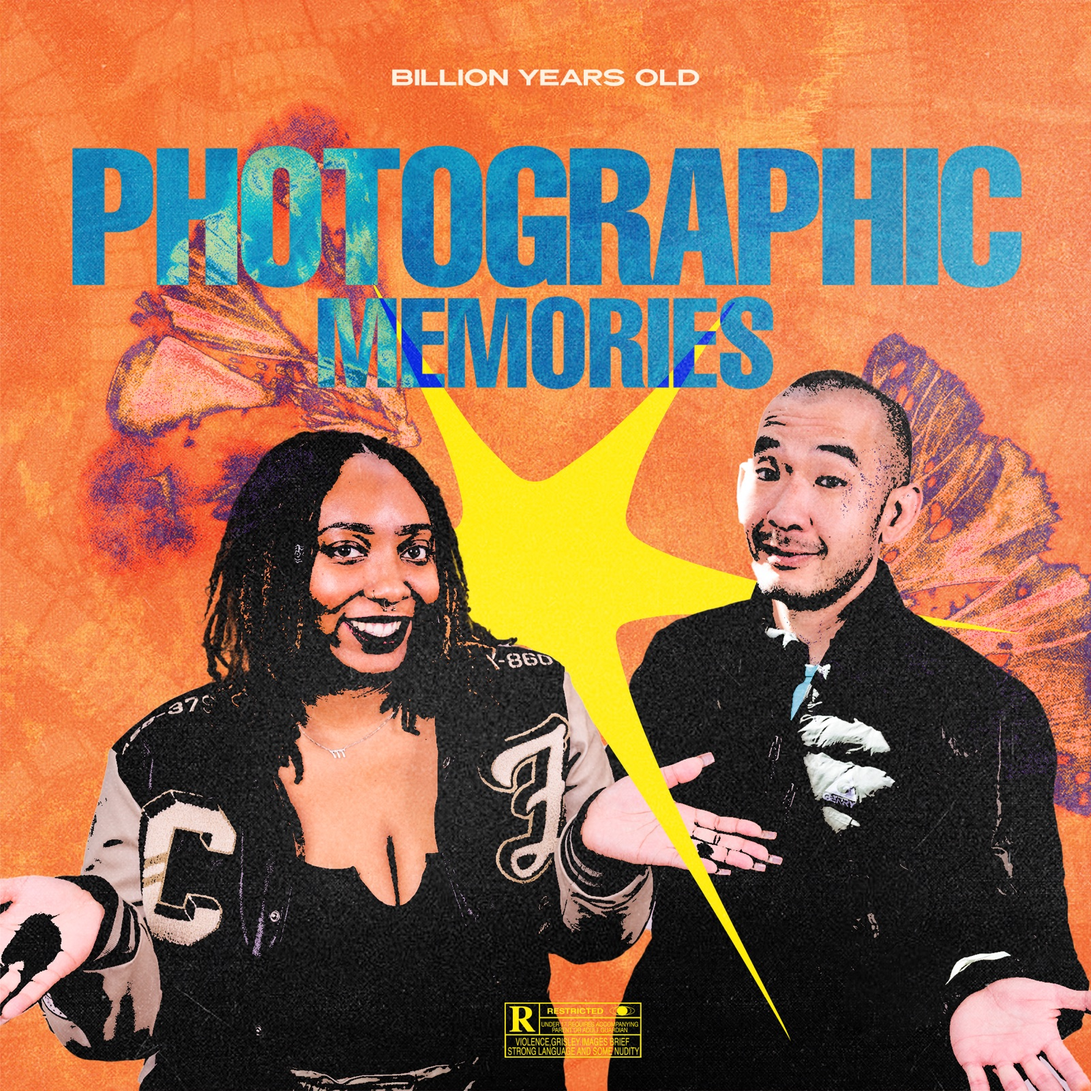
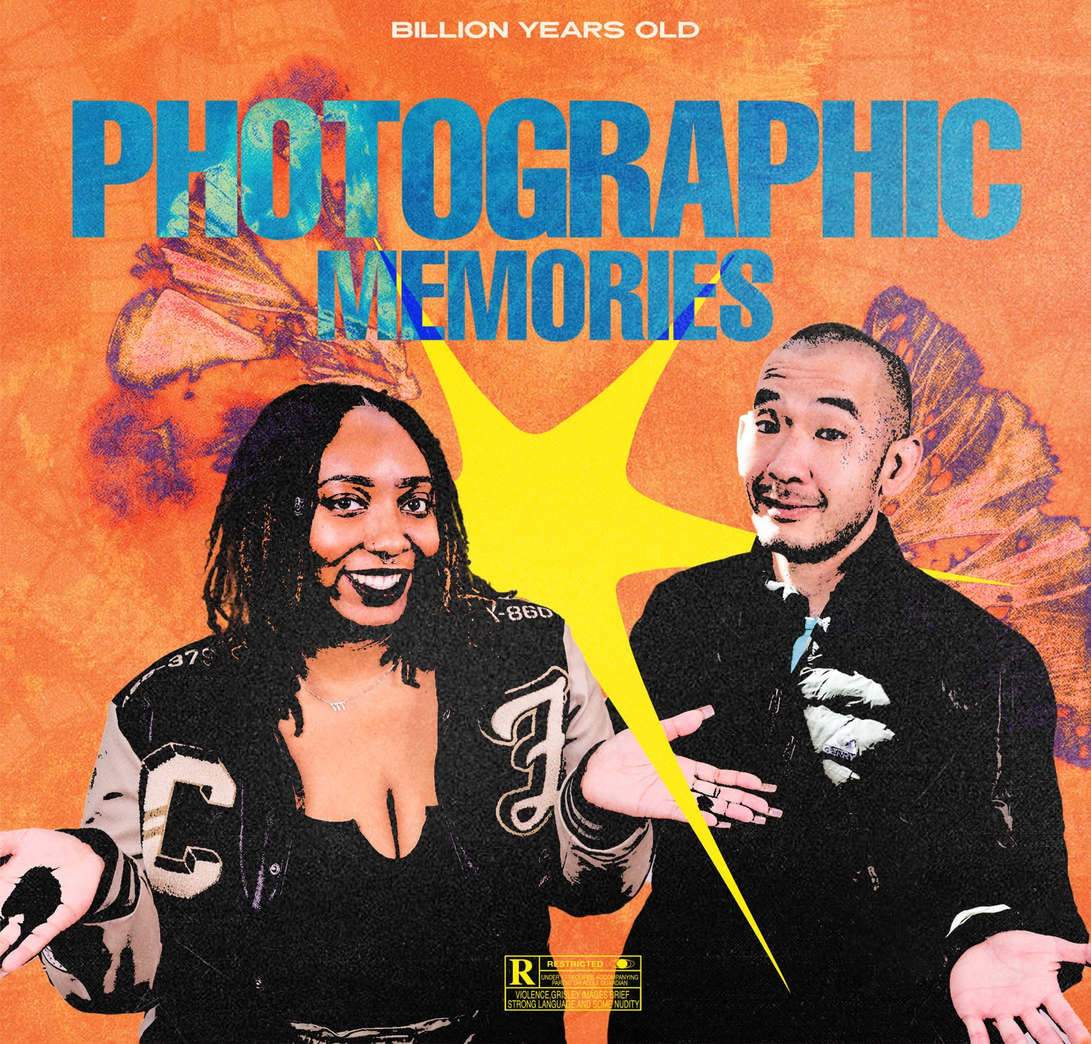
Update website

diff --git a/src/lib/work.ts b/src/lib/work.ts
@@ -189,6 +189,7 @@ export const WORK: WorkItem[] = [
         role: "Artist",
         name: "Billion Years Old, Galactic Monk, Mickey Factz, Becca Berry",
       },
+      { role: "Writer", name: "Jason Lee, Mickey Factz, Becca Berry" },
       { role: "Recording Engineer", name: "Jason Lee" },
       { role: "Mix Engineer", name: "Jason Lee" },
       { role: "Mastering Engineer", name: "Jason Lee" },
@@ -209,14 +210,17 @@ export const WORK: WorkItem[] = [
     audio: "/work/photographic-memories/photographic-memories.mp3",
     credits: [
       { role: "Artist", name: "Billion Years Old, Galactic Monk, Becca Berry" },
+      { role: "Writer", name: "Jason Lee" },
       { role: "Recording Engineer", name: "Jason Lee" },
       { role: "Mix Engineer", name: "Jason Lee" },
       { role: "Mastering Engineer", name: "Jason Lee" },
     ],
+    details:
+      "Recorded with Neumann u87 AI and Great River ME-1NV. Apogee converters.",
   },
   {
     id: "epstein-island",
-    title: "Epstein Island (feat. Blu, AnarKy I)",
+    title: '"Epstein Island" (feat. Blu, AnarKy I)',
     category: "music",
     year: "2026",
     blurb:
@@ -227,6 +231,13 @@ export const WORK: WorkItem[] = [
     image: "/work/epstein-island/epstein-island-cover.jpeg",
     imagePosition: "top",
     audio: "/work/epstein-island/epstein-island.mp3",
+    credits: [
+      { role: "Artist", name: "Galactic Monk, Blu, AnarKy I" },
+      { role: "Writer", name: "Jason Lee, Blu, AnarKy I" },
+      { role: "Recording Engineer", name: "Jason Lee" },
+      { role: "Mix Engineer", name: "Jason Lee" },
+      { role: "Mastering Engineer", name: "Jason Lee" },
+    ],
     details: "Recorded with Pearlman TM-1 and Great River ME-1NV. Apogee converters.",
   },
   {
